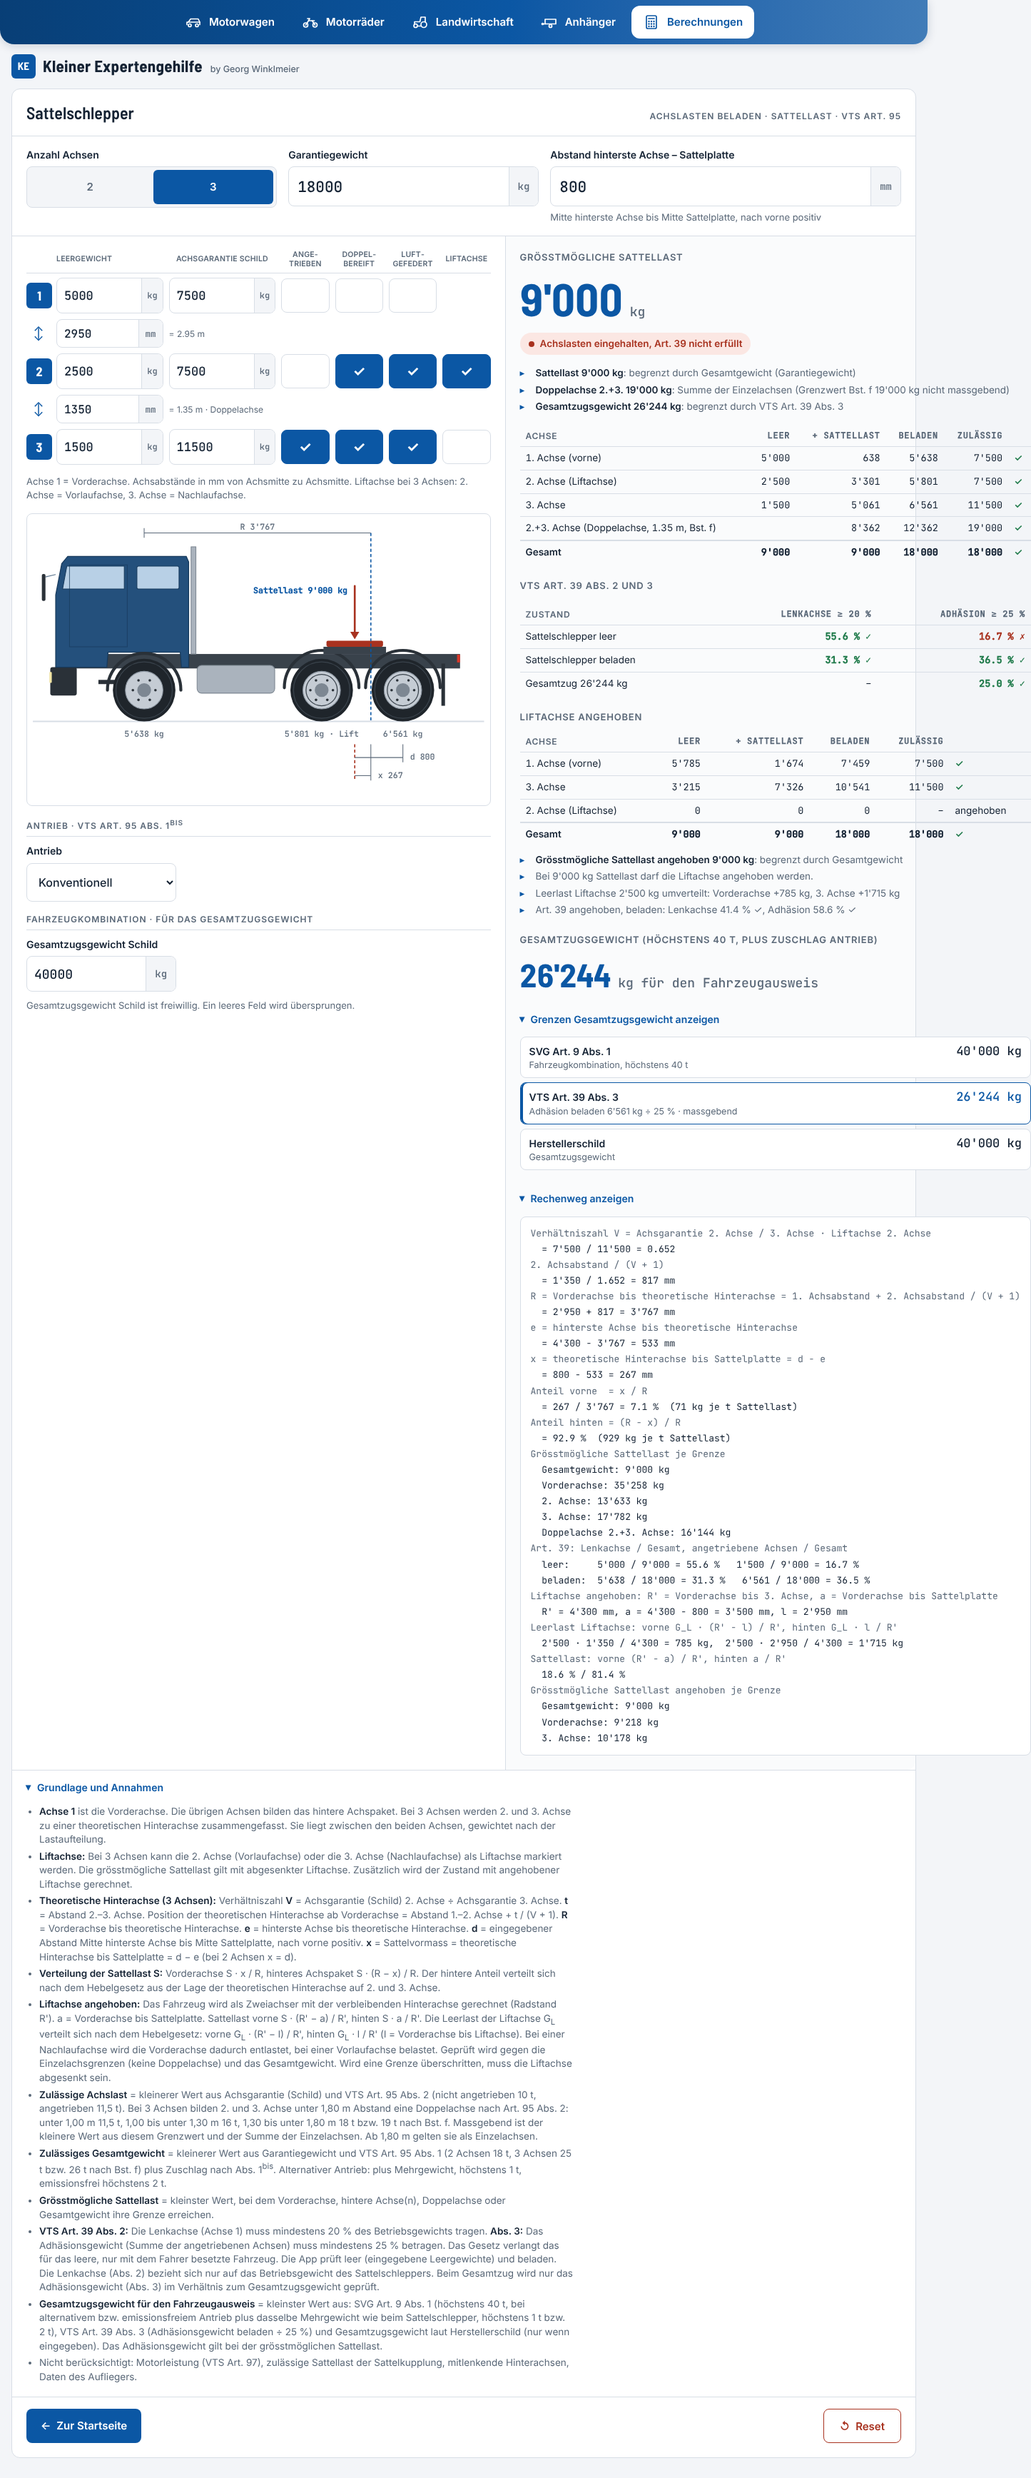
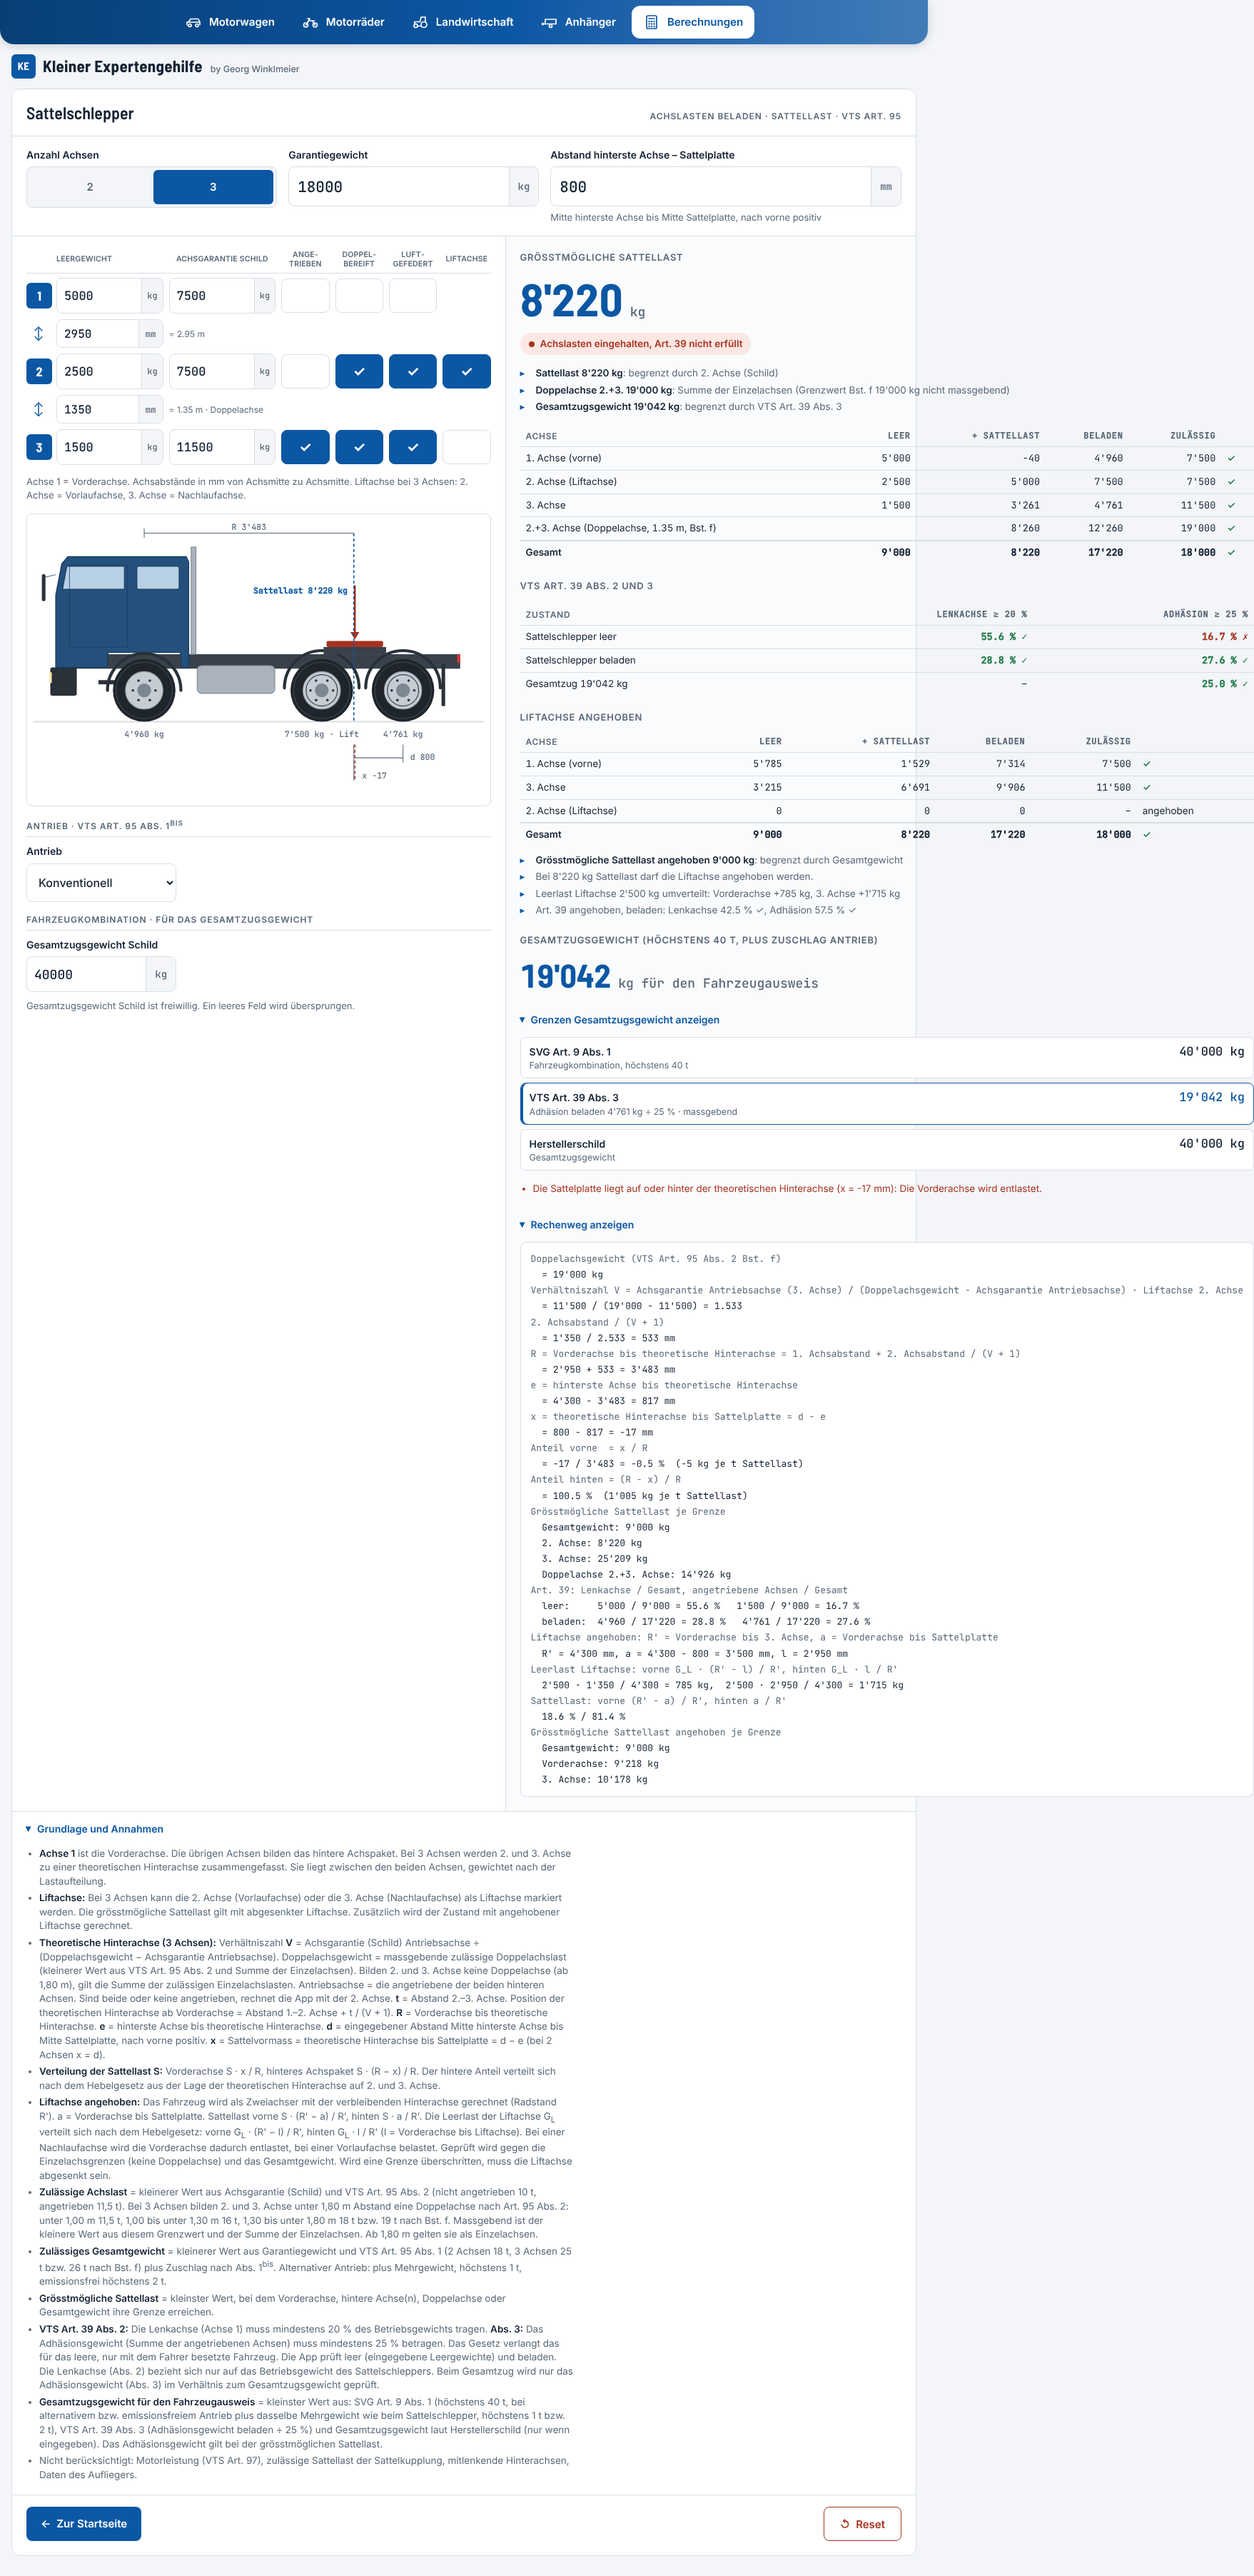
Sattelschlepper: V = Achsgarantie Antriebsachse / (Doppelachsgewicht - Achsgarantie Antriebsachse)
Claude-Session: https://claude.ai/code/session_01Sf1onsahz2Ert4FVbTMkWL

diff --git a/index.html b/index.html
@@ -1054,7 +1054,7 @@ a.brand:focus-visible, .tile:focus-visible, .btn-back:focus-visible { outline: 3
         <ul>
           <li><b>Achse 1</b> ist die Vorderachse. Die übrigen Achsen bilden das hintere Achspaket. Bei 3 Achsen werden 2. und 3. Achse zu einer theoretischen Hinterachse zusammengefasst. Sie liegt zwischen den beiden Achsen, gewichtet nach der Lastaufteilung.</li>
           <li><b>Liftachse:</b> Bei 3 Achsen kann die 2. Achse (Vorlaufachse) oder die 3. Achse (Nachlaufachse) als Liftachse markiert werden. Die grösstmögliche Sattellast gilt mit abgesenkter Liftachse. Zusätzlich wird der Zustand mit angehobener Liftachse gerechnet.</li>
-          <li><b>Theoretische Hinterachse (3 Achsen):</b> Verhältniszahl <b>V</b> = Achsgarantie (Schild) 2. Achse ÷ Achsgarantie 3. Achse. <b>t</b> = Abstand 2.–3. Achse. Position der theoretischen Hinterachse ab Vorderachse = Abstand 1.–2. Achse + t / (V + 1). <b>R</b> = Vorderachse bis theoretische Hinterachse. <b>e</b> = hinterste Achse bis theoretische Hinterachse. <b>d</b> = eingegebener Abstand Mitte hinterste Achse bis Mitte Sattelplatte, nach vorne positiv. <b>x</b> = Sattelvormass = theoretische Hinterachse bis Sattelplatte = d − e (bei 2 Achsen x = d).</li>
+          <li><b>Theoretische Hinterachse (3 Achsen):</b> Verhältniszahl <b>V</b> = Achsgarantie (Schild) Antriebsachse ÷ (Doppelachsgewicht − Achsgarantie Antriebsachse). Doppelachsgewicht = massgebende zulässige Doppelachslast (kleinerer Wert aus VTS Art. 95 Abs. 2 und Summe der Einzelachsen). Bilden 2. und 3. Achse keine Doppelachse (ab 1,80 m), gilt die Summe der zulässigen Einzelachslasten. Antriebsachse = die angetriebene der beiden hinteren Achsen. Sind beide oder keine angetrieben, rechnet die App mit der 2. Achse. <b>t</b> = Abstand 2.–3. Achse. Position der theoretischen Hinterachse ab Vorderachse = Abstand 1.–2. Achse + t / (V + 1). <b>R</b> = Vorderachse bis theoretische Hinterachse. <b>e</b> = hinterste Achse bis theoretische Hinterachse. <b>d</b> = eingegebener Abstand Mitte hinterste Achse bis Mitte Sattelplatte, nach vorne positiv. <b>x</b> = Sattelvormass = theoretische Hinterachse bis Sattelplatte = d − e (bei 2 Achsen x = d).</li>
           <li><b>Verteilung der Sattellast S:</b> Vorderachse S · x / R, hinteres Achspaket S · (R − x) / R. Der hintere Anteil verteilt sich nach dem Hebelgesetz aus der Lage der theoretischen Hinterachse auf 2. und 3. Achse.</li>
           <li><b>Liftachse angehoben:</b> Das Fahrzeug wird als Zweiachser mit der verbleibenden Hinterachse gerechnet (Radstand R'). a = Vorderachse bis Sattelplatte. Sattellast vorne S · (R' − a) / R', hinten S · a / R'. Die Leerlast der Liftachse G<sub>L</sub> verteilt sich nach dem Hebelgesetz: vorne G<sub>L</sub> · (R' − l) / R', hinten G<sub>L</sub> · l / R' (l = Vorderachse bis Liftachse). Bei einer Nachlaufachse wird die Vorderachse dadurch entlastet, bei einer Vorlaufachse belastet. Geprüft wird gegen die Einzelachsgrenzen (keine Doppelachse) und das Gesamtgewicht. Wird eine Grenze überschritten, muss die Liftachse abgesenkt sein.</li>
           <li><b>Zulässige Achslast</b> = kleinerer Wert aus Achsgarantie (Schild) und VTS Art. 95 Abs. 2 (nicht angetrieben 10 t, angetrieben 11,5 t). Bei 3 Achsen bilden 2. und 3. Achse unter 1,80 m Abstand eine Doppelachse nach Art. 95 Abs. 2: unter 1,00 m 11,5 t, 1,00 bis unter 1,30 m 16 t, 1,30 bis unter 1,80 m 18 t bzw. 19 t nach Bst. f. Massgebend ist der kleinere Wert aus diesem Grenzwert und der Summe der Einzelachsen. Ab 1,80 m gelten sie als Einzelachsen.</li>
@@ -1893,11 +1893,16 @@ a.brand:focus-visible, .tile:focus-visible, .btn-back:focus-visible { outline: 3
     }
 
     var rear = n === 3 ? [1, 2] : [1];
-    // Theoretische Hinterachse über die Verhältniszahl V = Achsgarantie 2. Achse / 3. Achse
+    // Theoretische Hinterachse über die Verhältniszahl V = Achsgarantie Antriebsachse / (Doppelachsgewicht − Achsgarantie Antriebsachse)
     // Position = 1. Achsabstand + 2. Achsabstand / (V + 1)
-    var kSh = [0, 1, 0], V = 1, off = 0;
+    var kSh = [0, 1, 0], V = 1, off = 0, dA = 1, DG = 0, DGtxt = "", vBad = false;
     if (n === 3) {
-      V = ax[1].schild / ax[2].schild;                      // Achsgarantie 2. Achse / 3. Achse
+      dA = (ax[2].drv && !ax[1].drv) ? 2 : 1;               // Antriebsachse (beide/keine angetrieben: 2. Achse)
+      var LV = ssLimits(ax, n, sp, gar.v, false, bonus);
+      if (LV.grp) { DG = LV.grp.v; DGtxt = LV.grp.v < LV.grp.lim ? "Summe Einzelachsen" : "VTS Art. 95 " + LV.grp.ref; }
+      else { DG = LV.lim[1].v + LV.lim[2].v; DGtxt = "Summe Einzelachsen, keine Doppelachse"; }
+      if (DG - ax[dA].schild > 0) V = ax[dA].schild / (DG - ax[dA].schild);
+      else { vBad = true; V = ax[dA].schild / ax[3 - dA].schild; }
       off = sp[2] / (V + 1);                                // 2. Achse bis theoretische Hinterachse
       kSh[2] = off / sp[2]; kSh[1] = 1 - kSh[2];            // Hebelgesetz
     }
@@ -2051,13 +2056,16 @@ a.brand:focus-visible, .tile:focus-visible, .btn-back:focus-visible { outline: 3
     if (L.capped) warns.push("Hinterachsen auf 9500 kg je Achse begrenzt, damit Bst. f (19 t) gilt.");
     if (!ax.some(function (a) { return a.drv; })) warns.push("Keine Achse als angetrieben markiert: Adhäsionsgewicht ist 0.");
     if (n === 3 && sp[1] < 1800) warns.push("1. und 2. Achse liegen weniger als 1,80 m auseinander und bilden nach Art. 95 eine Doppelachse. Der Rechner nimmt Achse 1 als einzelne Lenkachse an. Bitte manuell prüfen.");
+    if (vBad) warns.push("Doppelachsgewicht " + kg(DG) + " kg ist nicht grösser als die Achsgarantie der Antriebsachse. Verhältniszahl ersatzweise aus den Achsgarantien 2. und 3. Achse.");
     if (n === 3 && sp[2] >= 1800) warns.push("2. und 3. Achse liegen 1,80 m oder mehr auseinander: Sie gelten als Einzelachsen, keine Doppelachse.");
     $("ss-warns").innerHTML = warns.map(function (w) { return "<li>" + w + "</li>"; }).join("");
     $("ss-warns").hidden = !warns.length;
 
     $("ss-formula").innerHTML =
-      (n === 3 ? '<span class="k">Verhältniszahl V = Achsgarantie 2. Achse / 3. Achse' + (li >= 0 ? " · Liftachse " + (li + 1) + ". Achse" : "") + '</span>\n' +
-        "  = " + kg(ax[1].schild) + " / " + kg(ax[2].schild) + " = " + fmt(V, 3) + "\n" +
+      (n === 3 ? '<span class="k">Doppelachsgewicht (' + DGtxt + ')</span>\n' +
+        "  = " + kg(DG) + " kg\n" +
+        '<span class="k">Verhältniszahl V = Achsgarantie Antriebsachse (' + (dA + 1) + '. Achse) / (Doppelachsgewicht − Achsgarantie Antriebsachse)' + (li >= 0 ? " · Liftachse " + (li + 1) + ". Achse" : "") + '</span>\n' +
+        (vBad ? "  ersatzweise " + kg(ax[dA].schild) + " / " + kg(ax[3 - dA].schild) : "  = " + kg(ax[dA].schild) + " / (" + kg(DG) + " − " + kg(ax[dA].schild) + ")") + " = " + fmt(V, 3) + "\n" +
         '<span class="k">2. Achsabstand / (V + 1)</span>\n' +
         "  = " + kg(sp[2]) + " / " + fmt(V + 1, 3) + " = " + kg(Math.round(off)) + " mm\n" +
         '<span class="k">R = Vorderachse bis theoretische Hinterachse = 1. Achsabstand + 2. Achsabstand / (V + 1)</span>\n' +

diff --git a/src/expertengehilfe.html b/src/expertengehilfe.html
@@ -1037,7 +1037,7 @@ a.brand:focus-visible, .tile:focus-visible, .btn-back:focus-visible { outline: 3
         <ul>
           <li><b>Achse 1</b> ist die Vorderachse. Die übrigen Achsen bilden das hintere Achspaket. Bei 3 Achsen werden 2. und 3. Achse zu einer theoretischen Hinterachse zusammengefasst. Sie liegt zwischen den beiden Achsen, gewichtet nach der Lastaufteilung.</li>
           <li><b>Liftachse:</b> Bei 3 Achsen kann die 2. Achse (Vorlaufachse) oder die 3. Achse (Nachlaufachse) als Liftachse markiert werden. Die grösstmögliche Sattellast gilt mit abgesenkter Liftachse. Zusätzlich wird der Zustand mit angehobener Liftachse gerechnet.</li>
-          <li><b>Theoretische Hinterachse (3 Achsen):</b> Verhältniszahl <b>V</b> = Achsgarantie (Schild) 2. Achse ÷ Achsgarantie 3. Achse. <b>t</b> = Abstand 2.–3. Achse. Position der theoretischen Hinterachse ab Vorderachse = Abstand 1.–2. Achse + t / (V + 1). <b>R</b> = Vorderachse bis theoretische Hinterachse. <b>e</b> = hinterste Achse bis theoretische Hinterachse. <b>d</b> = eingegebener Abstand Mitte hinterste Achse bis Mitte Sattelplatte, nach vorne positiv. <b>x</b> = Sattelvormass = theoretische Hinterachse bis Sattelplatte = d − e (bei 2 Achsen x = d).</li>
+          <li><b>Theoretische Hinterachse (3 Achsen):</b> Verhältniszahl <b>V</b> = Achsgarantie (Schild) Antriebsachse ÷ (Doppelachsgewicht − Achsgarantie Antriebsachse). Doppelachsgewicht = massgebende zulässige Doppelachslast (kleinerer Wert aus VTS Art. 95 Abs. 2 und Summe der Einzelachsen). Bilden 2. und 3. Achse keine Doppelachse (ab 1,80 m), gilt die Summe der zulässigen Einzelachslasten. Antriebsachse = die angetriebene der beiden hinteren Achsen. Sind beide oder keine angetrieben, rechnet die App mit der 2. Achse. <b>t</b> = Abstand 2.–3. Achse. Position der theoretischen Hinterachse ab Vorderachse = Abstand 1.–2. Achse + t / (V + 1). <b>R</b> = Vorderachse bis theoretische Hinterachse. <b>e</b> = hinterste Achse bis theoretische Hinterachse. <b>d</b> = eingegebener Abstand Mitte hinterste Achse bis Mitte Sattelplatte, nach vorne positiv. <b>x</b> = Sattelvormass = theoretische Hinterachse bis Sattelplatte = d − e (bei 2 Achsen x = d).</li>
           <li><b>Verteilung der Sattellast S:</b> Vorderachse S · x / R, hinteres Achspaket S · (R − x) / R. Der hintere Anteil verteilt sich nach dem Hebelgesetz aus der Lage der theoretischen Hinterachse auf 2. und 3. Achse.</li>
           <li><b>Liftachse angehoben:</b> Das Fahrzeug wird als Zweiachser mit der verbleibenden Hinterachse gerechnet (Radstand R'). a = Vorderachse bis Sattelplatte. Sattellast vorne S · (R' − a) / R', hinten S · a / R'. Die Leerlast der Liftachse G<sub>L</sub> verteilt sich nach dem Hebelgesetz: vorne G<sub>L</sub> · (R' − l) / R', hinten G<sub>L</sub> · l / R' (l = Vorderachse bis Liftachse). Bei einer Nachlaufachse wird die Vorderachse dadurch entlastet, bei einer Vorlaufachse belastet. Geprüft wird gegen die Einzelachsgrenzen (keine Doppelachse) und das Gesamtgewicht. Wird eine Grenze überschritten, muss die Liftachse abgesenkt sein.</li>
           <li><b>Zulässige Achslast</b> = kleinerer Wert aus Achsgarantie (Schild) und VTS Art. 95 Abs. 2 (nicht angetrieben 10 t, angetrieben 11,5 t). Bei 3 Achsen bilden 2. und 3. Achse unter 1,80 m Abstand eine Doppelachse nach Art. 95 Abs. 2: unter 1,00 m 11,5 t, 1,00 bis unter 1,30 m 16 t, 1,30 bis unter 1,80 m 18 t bzw. 19 t nach Bst. f. Massgebend ist der kleinere Wert aus diesem Grenzwert und der Summe der Einzelachsen. Ab 1,80 m gelten sie als Einzelachsen.</li>
@@ -1876,11 +1876,16 @@ a.brand:focus-visible, .tile:focus-visible, .btn-back:focus-visible { outline: 3
     }
 
     var rear = n === 3 ? [1, 2] : [1];
-    // Theoretische Hinterachse über die Verhältniszahl V = Achsgarantie 2. Achse / 3. Achse
+    // Theoretische Hinterachse über die Verhältniszahl V = Achsgarantie Antriebsachse / (Doppelachsgewicht − Achsgarantie Antriebsachse)
     // Position = 1. Achsabstand + 2. Achsabstand / (V + 1)
-    var kSh = [0, 1, 0], V = 1, off = 0;
+    var kSh = [0, 1, 0], V = 1, off = 0, dA = 1, DG = 0, DGtxt = "", vBad = false;
     if (n === 3) {
-      V = ax[1].schild / ax[2].schild;                      // Achsgarantie 2. Achse / 3. Achse
+      dA = (ax[2].drv && !ax[1].drv) ? 2 : 1;               // Antriebsachse (beide/keine angetrieben: 2. Achse)
+      var LV = ssLimits(ax, n, sp, gar.v, false, bonus);
+      if (LV.grp) { DG = LV.grp.v; DGtxt = LV.grp.v < LV.grp.lim ? "Summe Einzelachsen" : "VTS Art. 95 " + LV.grp.ref; }
+      else { DG = LV.lim[1].v + LV.lim[2].v; DGtxt = "Summe Einzelachsen, keine Doppelachse"; }
+      if (DG - ax[dA].schild > 0) V = ax[dA].schild / (DG - ax[dA].schild);
+      else { vBad = true; V = ax[dA].schild / ax[3 - dA].schild; }
       off = sp[2] / (V + 1);                                // 2. Achse bis theoretische Hinterachse
       kSh[2] = off / sp[2]; kSh[1] = 1 - kSh[2];            // Hebelgesetz
     }
@@ -2034,13 +2039,16 @@ a.brand:focus-visible, .tile:focus-visible, .btn-back:focus-visible { outline: 3
     if (L.capped) warns.push("Hinterachsen auf 9500 kg je Achse begrenzt, damit Bst. f (19 t) gilt.");
     if (!ax.some(function (a) { return a.drv; })) warns.push("Keine Achse als angetrieben markiert: Adhäsionsgewicht ist 0.");
     if (n === 3 && sp[1] < 1800) warns.push("1. und 2. Achse liegen weniger als 1,80 m auseinander und bilden nach Art. 95 eine Doppelachse. Der Rechner nimmt Achse 1 als einzelne Lenkachse an. Bitte manuell prüfen.");
+    if (vBad) warns.push("Doppelachsgewicht " + kg(DG) + " kg ist nicht grösser als die Achsgarantie der Antriebsachse. Verhältniszahl ersatzweise aus den Achsgarantien 2. und 3. Achse.");
     if (n === 3 && sp[2] >= 1800) warns.push("2. und 3. Achse liegen 1,80 m oder mehr auseinander: Sie gelten als Einzelachsen, keine Doppelachse.");
     $("ss-warns").innerHTML = warns.map(function (w) { return "<li>" + w + "</li>"; }).join("");
     $("ss-warns").hidden = !warns.length;
 
     $("ss-formula").innerHTML =
-      (n === 3 ? '<span class="k">Verhältniszahl V = Achsgarantie 2. Achse / 3. Achse' + (li >= 0 ? " · Liftachse " + (li + 1) + ". Achse" : "") + '</span>\n' +
-        "  = " + kg(ax[1].schild) + " / " + kg(ax[2].schild) + " = " + fmt(V, 3) + "\n" +
+      (n === 3 ? '<span class="k">Doppelachsgewicht (' + DGtxt + ')</span>\n' +
+        "  = " + kg(DG) + " kg\n" +
+        '<span class="k">Verhältniszahl V = Achsgarantie Antriebsachse (' + (dA + 1) + '. Achse) / (Doppelachsgewicht − Achsgarantie Antriebsachse)' + (li >= 0 ? " · Liftachse " + (li + 1) + ". Achse" : "") + '</span>\n' +
+        (vBad ? "  ersatzweise " + kg(ax[dA].schild) + " / " + kg(ax[3 - dA].schild) : "  = " + kg(ax[dA].schild) + " / (" + kg(DG) + " − " + kg(ax[dA].schild) + ")") + " = " + fmt(V, 3) + "\n" +
         '<span class="k">2. Achsabstand / (V + 1)</span>\n' +
         "  = " + kg(sp[2]) + " / " + fmt(V + 1, 3) + " = " + kg(Math.round(off)) + " mm\n" +
         '<span class="k">R = Vorderachse bis theoretische Hinterachse = 1. Achsabstand + 2. Achsabstand / (V + 1)</span>\n' +
